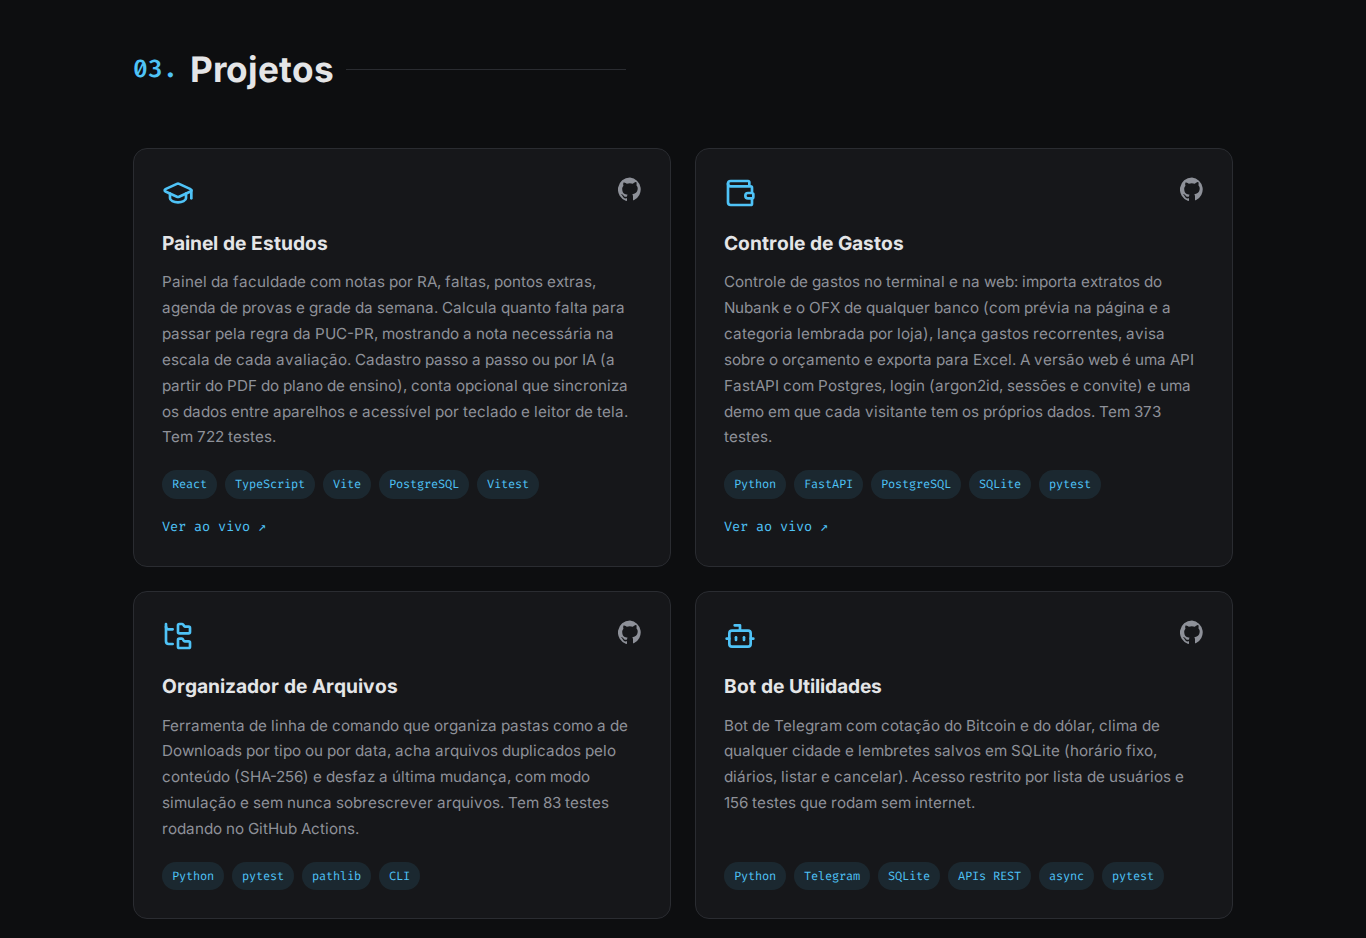
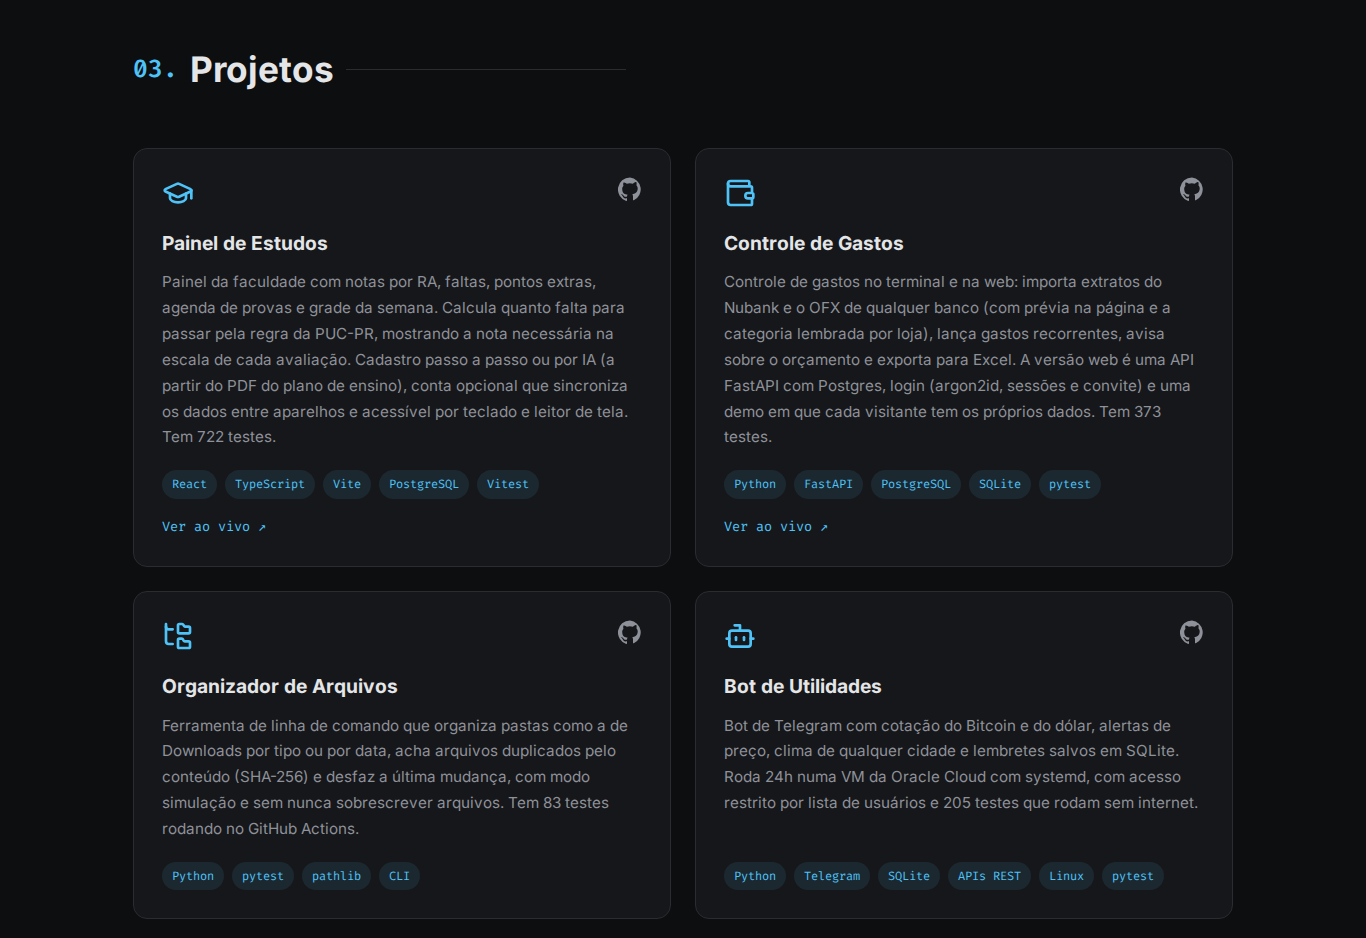
Card do Bot: alertas de preço, 24h na Oracle Cloud e 205 testes

Changed region(s): [[0.5227, 0.7729, 0.8609, 0.8657], [0.7687, 0.9275, 0.7994, 0.9584]]

diff --git a/index.html b/index.html
@@ -205,11 +205,12 @@
             </div>
             <h3 class="project__title">Bot de Utilidades</h3>
             <p class="project__desc">
-              Bot de Telegram com cotação do Bitcoin e do dólar, clima de qualquer cidade e lembretes salvos em SQLite
-              (horário fixo, diários, listar e cancelar). Acesso restrito por lista de usuários e 156 testes que rodam sem internet.
+              Bot de Telegram com cotação do Bitcoin e do dólar, alertas de preço, clima de qualquer cidade e lembretes
+              salvos em SQLite. Roda 24h numa VM da Oracle Cloud com systemd, com acesso restrito por lista de usuários
+              e 205 testes que rodam sem internet.
             </p>
             <ul class="project__tags">
-              <li>Python</li><li>Telegram</li><li>SQLite</li><li>APIs REST</li><li>async</li><li>pytest</li>
+              <li>Python</li><li>Telegram</li><li>SQLite</li><li>APIs REST</li><li>Linux</li><li>pytest</li>
             </ul>
           </article>
 
